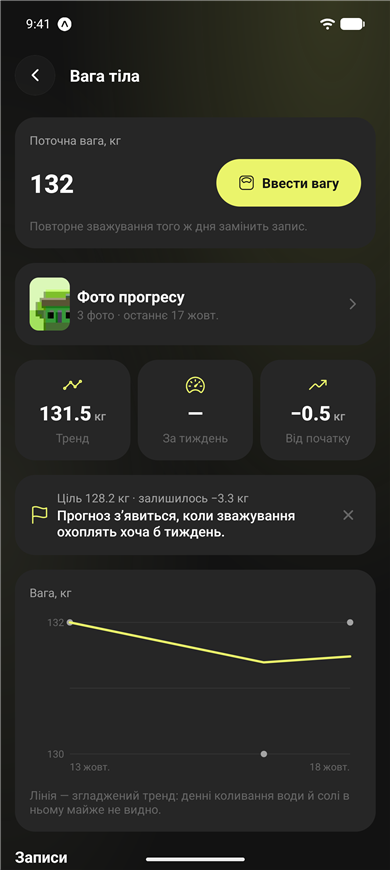
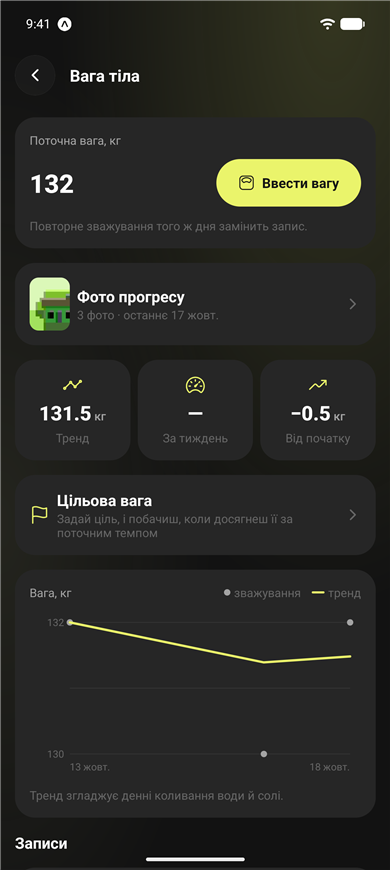
Label the weigh-in dots and the trend line on the weight chart

diff --git a/src/app/body-weight.tsx b/src/app/body-weight.tsx
@@ -161,9 +161,21 @@ export default function BodyWeightScreen() {
             </Text>
           ) : (
             <Card>
-              <Text variant="caption">
-                {tr('Вага', 'Weight')}, {WEIGHT_UNIT}
-              </Text>
+              <Row style={styles.spaceBetween}>
+                <Text variant="caption">
+                  {tr('Вага', 'Weight')}, {WEIGHT_UNIT}
+                </Text>
+                <Row style={styles.legend}>
+                  <Row style={styles.legendItem}>
+                    <View style={styles.legendDot} />
+                    <Text variant="muted">{tr('зважування', 'weigh-ins')}</Text>
+                  </Row>
+                  <Row style={styles.legendItem}>
+                    <View style={styles.legendLine} />
+                    <Text variant="muted">{tr('тренд', 'trend')}</Text>
+                  </Row>
+                </Row>
+              </Row>
               <LineChart
                 points={data.map((w) => ({ x: w.measuredAt, y: kgToDisplay(w.weightKg) }))}
                 trend={data.map((w, i) => ({ x: w.measuredAt, y: kgToDisplay(trend[i]) }))}
@@ -172,8 +184,8 @@ export default function BodyWeightScreen() {
               />
               <Text variant="muted">
                 {tr(
-                  'Лінія — згладжений тренд: денні коливання води й солі в ньому майже не видно.',
-                  'The line is the smoothed trend: daily swings of water and salt barely show in it.',
+                  'Тренд згладжує денні коливання води й солі.',
+                  'The trend smooths out daily swings of water and salt.',
                 )}
               </Text>
             </Card>
@@ -340,6 +352,11 @@ const styles = StyleSheet.create({
   spaceBetween: { justifyContent: 'space-between' },
   entryValue: { alignItems: 'flex-end' },
   chartHint: { textAlign: 'center' },
+  legend: { gap: spacing.md },
+  legendItem: { gap: spacing.xs, alignItems: 'center' },
+  // Match the weigh-in dots and the trend line drawn by LineChart.
+  legendDot: { width: 7, height: 7, borderRadius: 3.5, backgroundColor: colors.textSecondary },
+  legendLine: { width: 14, height: 2.5, borderRadius: 1.25, backgroundColor: colors.accent },
   photoThumb: {
     width: 44,
     height: 58,
